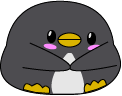
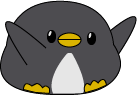
Add mood pinguin

diff --git a/javascript/script.js b/javascript/script.js
@@ -28,6 +28,8 @@ document.addEventListener('DOMContentLoaded', async function () {
     let corrects = document.getElementById('corrects')
     let errors = document.getElementById('errors')
 
+    let pinguin = document.getElementById('img_pinguin');
+
     let nbCorrects = 0
     let nbErrors = 0
     let nbErrorsSuccessive = 0
@@ -53,6 +55,8 @@ document.addEventListener('DOMContentLoaded', async function () {
         nbErrors++;
         nbErrorsSuccessive++;
         nbCorrectsSuccessive = 0
+        pinguin.setAttribute('src', '../image/pingouin/sad-'+Math.min(nbErrorsSuccessive,3)+'.png')
+
     }
 
     function correctAnswer()
@@ -62,6 +66,7 @@ document.addEventListener('DOMContentLoaded', async function () {
         nbCorrects++;
         nbErrorsSuccessive = 0
         nbCorrectsSuccessive++
+        pinguin.setAttribute('src', '../image/pingouin/happy-'+Math.min(nbCorrectsSuccessive,3)+'.png')
     }
 
     function revealCorrection(){

diff --git a/pages/home.php b/pages/home.php
@@ -37,6 +37,7 @@ ob_start();
             <div id="corrects">Nombres de bonnes réponses : </div>
             <div id="errors">Nombres de mauvaises réponses : </div>
         </div>
+
     </div>
 
 </div>
